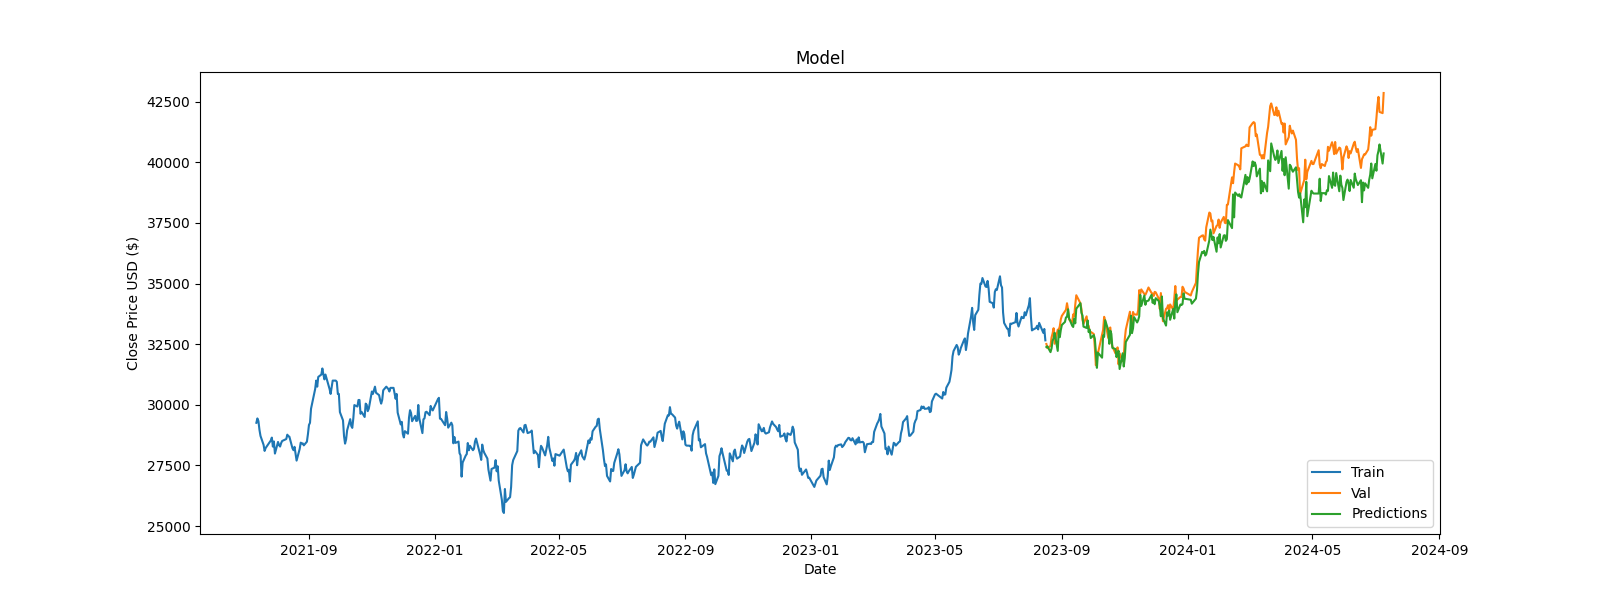
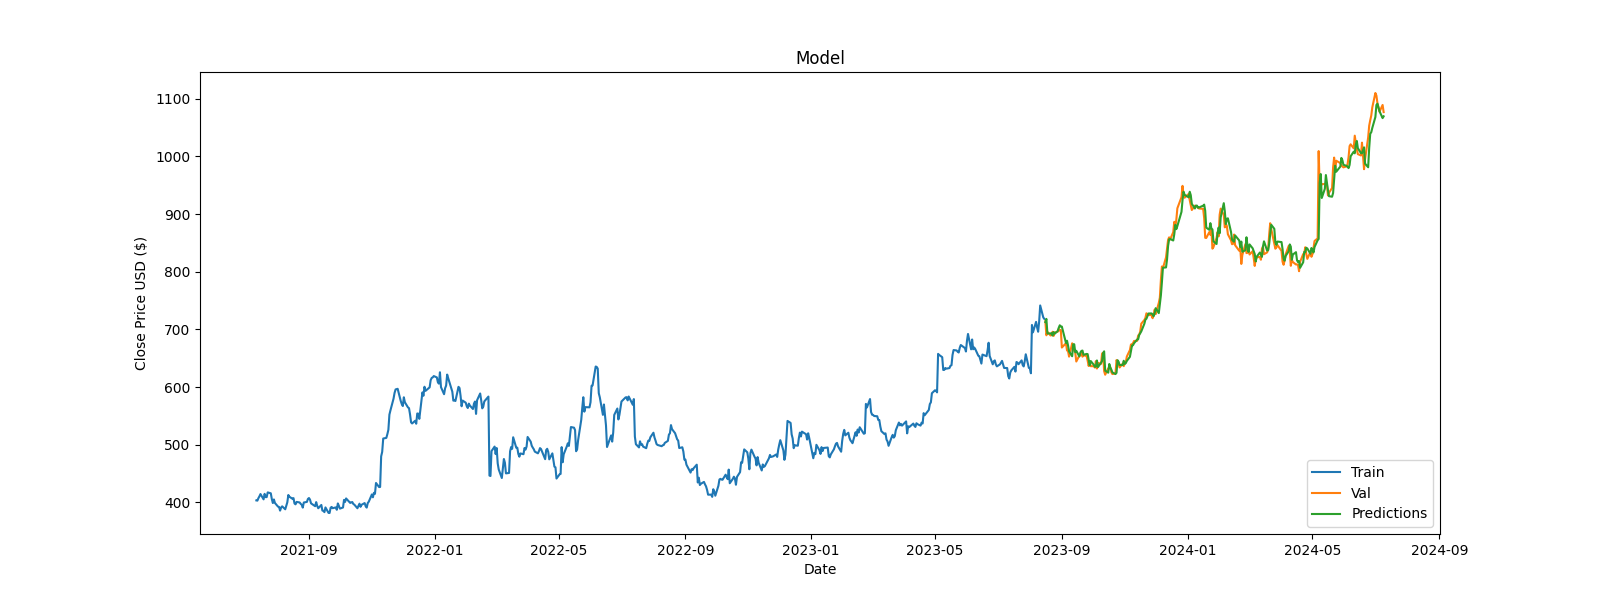
final

diff --git a/Stulab3_G1.tex b/Stulab3_G1.tex
@@ -31,8 +31,7 @@
 
 \subsection{モデル選定}
 \indent 本実験では、株価予測において有効であると判断したSGDRegressorを用いる。SGDRegressorは、線形回帰の一種であり、確率的勾配降下法を用いて学習を行う。また、SGDRegressorは、scikit-learnライブラリに含まれている。\\
-\indent 参考文献\cite{sklearnSGD}によると、SGDRegressorは、確率的勾配降下法を用いて学習を行う。scikit-learnのSGDRegressorというモデルを選定した理由は、データセット全体を使って学習を行うのではなく、ランダムに選択したデータを使って学習を行うため、大規模なデータセットに対しても高速に学習を行うことができるからである。また、SGDRegressorは、ハイパーパラメータの調整が必要であるため、ハイパーパラメータの調整を行うことで、より高い精度の予測が可能である。
-
+\indent 参考文献\cite{sklearnSGD}によると、SGDRegressor は線形回帰の一種であり、確率的勾配降下法を用いて学習を行う。scikit-learn の SGDRegressor というモデルを選定した理由は、このモデルがデータセット全体を使って学習を行うのでは なく、ランダムに選択したデータを使って学習を行うため、大規模なデータセットに対しても高速 に学習を行うことができるという点である。また、SGDRegressor はハイパーパラメータの調整が必 要であるため、ハイパーパラメータの調整を行うことで、より高い精度の予測が可能である。 
 \subsection{パラメータ調整}
 未着手
 

diff --git a/final.py b/final.py
@@ -9,6 +9,7 @@ from keras.models import Sequential
 from keras.layers import Dense, LSTM
 from sklearn.metrics import mean_squared_error
 import streamlit as st
+import os
 
 class DataLoader:
     def __init__(self, stock_code):
@@ -46,14 +47,14 @@ class ModelTrainer:
         x_train = np.reshape(x_train, (x_train.shape[0], x_train.shape[1], 1))
         return x_train, y_train, training_data_len
     
-    def train_model(self, x_train, y_train):
+    def train_model(self, x_train, y_train, epochs=20):
         model = Sequential()
         model.add(LSTM(50, return_sequences=True, input_shape=(x_train.shape[1], 1)))
         model.add(LSTM(50, return_sequences=False))
         model.add(Dense(25))
         model.add(Dense(1))
         model.compile(optimizer='adam', loss='mean_squared_error')
-        model.fit(x_train, y_train, batch_size=1, epochs=1)
+        model.fit(x_train, y_train, batch_size=1, epochs=epochs)
         return model
     
     def make_predictions(self, model, data, training_data_len):
@@ -103,7 +104,7 @@ class StreamlitApp:
             x_train, y_train, training_data_len = self.model_trainer.split_data(scaled_data)
             if st.button('モデルを訓練'):
                 with st.spinner('モデルを訓練中...'):
-                    model = self.model_trainer.train_model(x_train, y_train)
+                    model = self.model_trainer.train_model(x_train, y_train, epochs=20)
                     predictions = self.model_trainer.make_predictions(model, scaled_data, training_data_len)
                 
                 train = data[:training_data_len]

diff --git a/thinking_model/thiking_one.py b/thinking_model/thiking_one.py
@@ -17,7 +17,7 @@ start_day = dt_now - timedelta(days=1095)
 start = start_day.strftime('%Y-%m-%d')
 
 # 株価データの取得
-stock_code = "1321.T"
+stock_code = "coke"
 df = yf.download(stock_code, start=start, end=end, interval='1d')
 
 data = df.filter(["Open", "High", "Low", "Close"])
